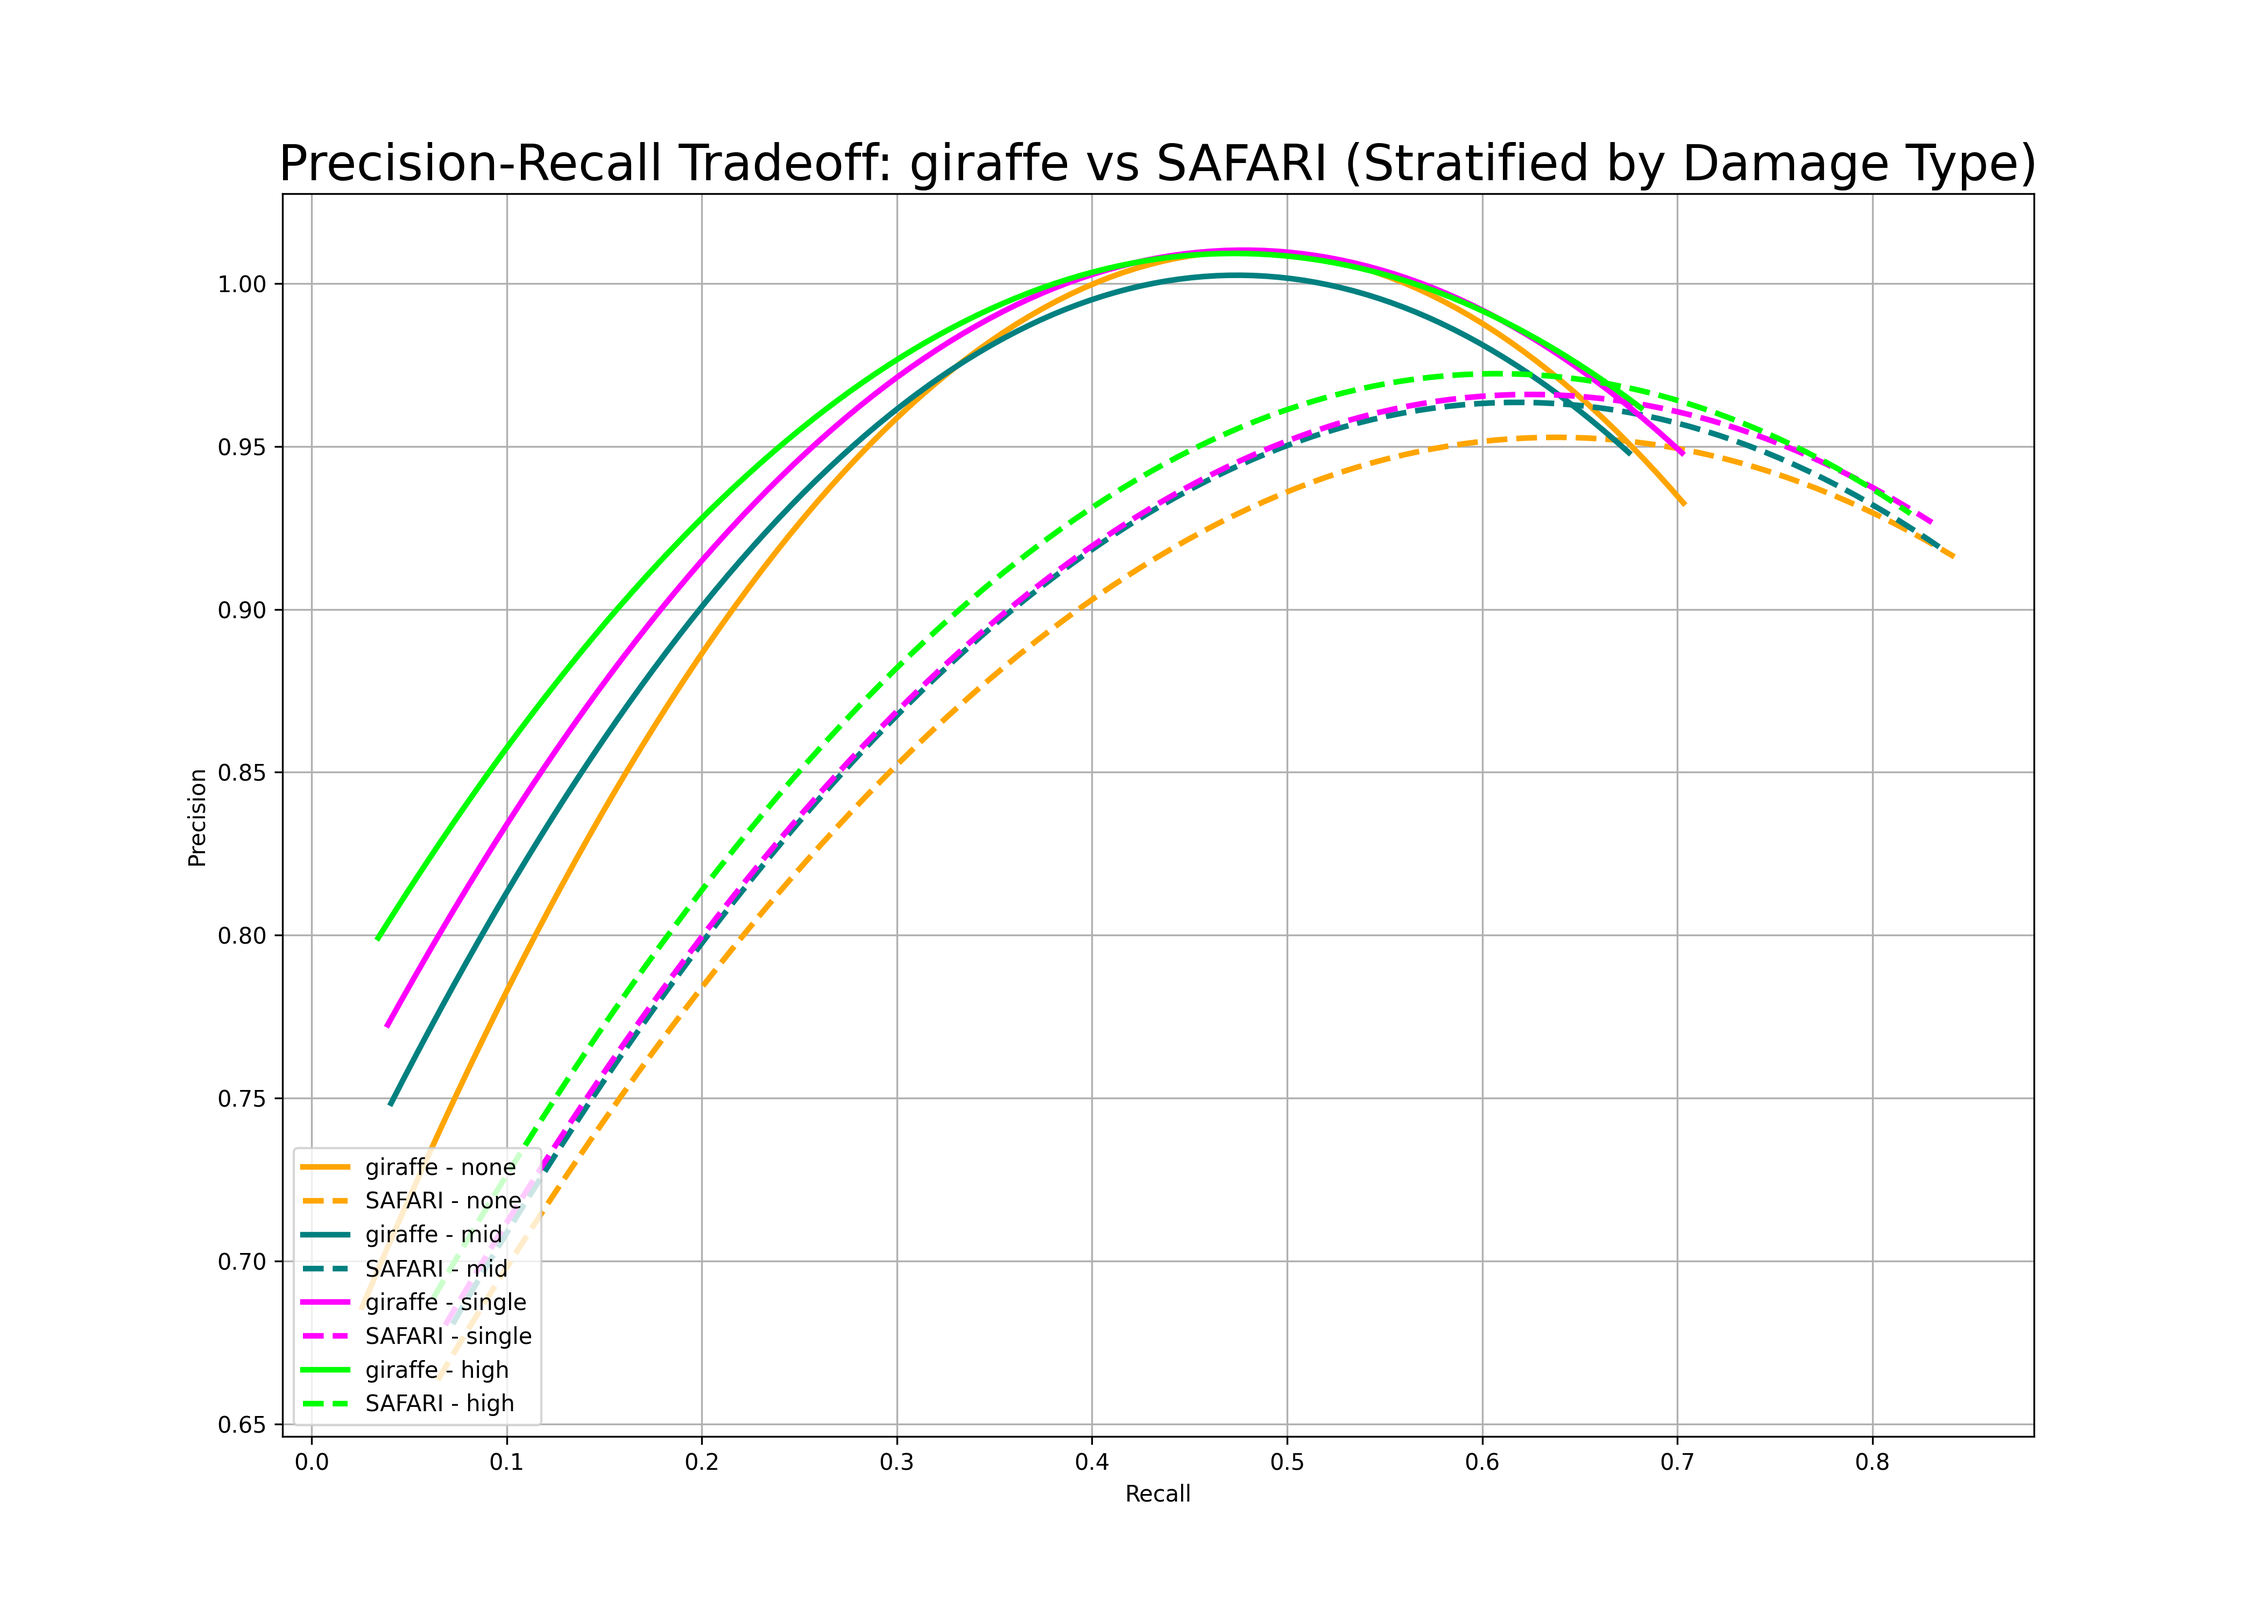
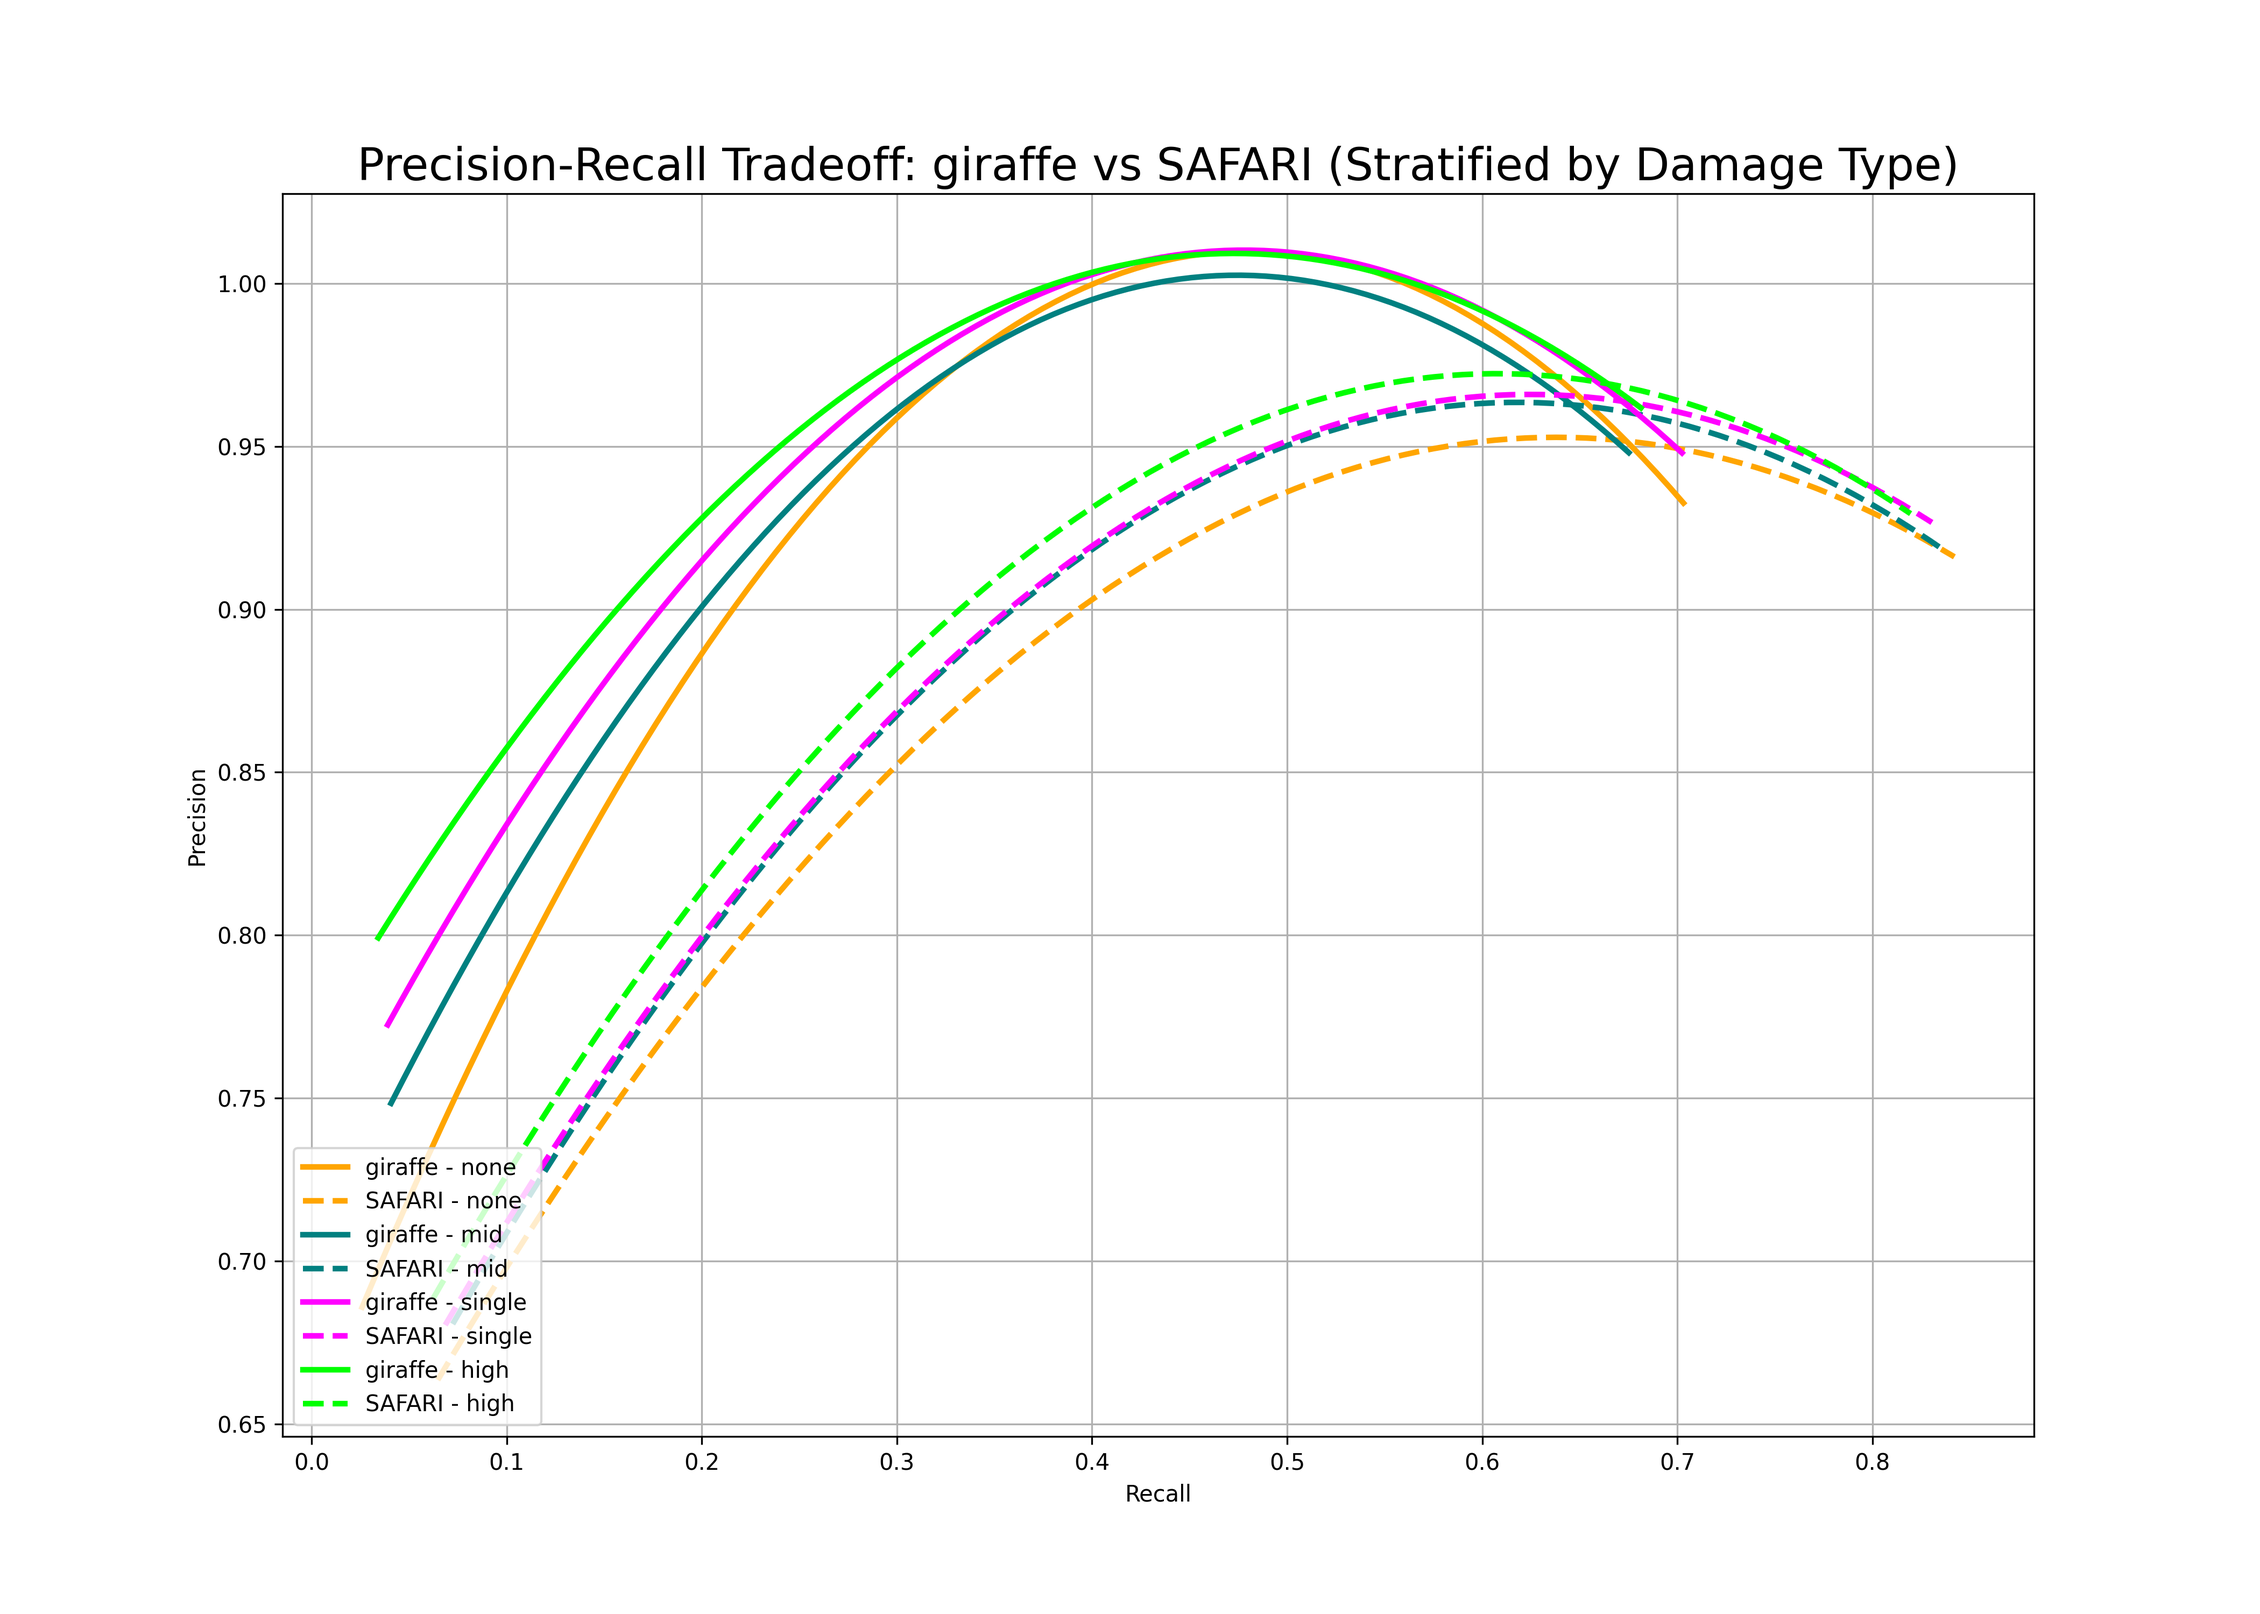
Update

Changed region(s): [[0.1248, 0.093, 0.9045, 0.124]]

diff --git a/linear_experiment/human_mito/linear_benchmark.py b/linear_experiment/human_mito/linear_benchmark.py
@@ -1,142 +1,74 @@
-import csv
-import numpy as np
+
+import pandas as pd
 import matplotlib.pyplot as plt
+import numpy as np
 
-def calculate_metrics(TP, FP, TN, FN):
-    sensitivity = TP / (TP + FN) if TP + FN != 0 else 0
-    specificity = TN / (TN + FP) if TN + FP != 0 else 0
-    precision = TP / (TP + FP) if TP + FP != 0 else 0
-    accuracy = (TP + TN) / (TP + FP + TN + FN) if TP + FP + TN + FN != 0 else 0
-    f1_score = 2 * (precision * sensitivity) / (precision + sensitivity) if precision + sensitivity != 0 else 0
-    return f1_score, sensitivity, specificity, precision, accuracy
+def calculate_precision_recall(df):
+    precision = df['TP'] / (df['TP'] + df['FP'])
+    recall = df['TP'] / (df['TP'] + df['FN'])
+    return precision, recall
 
-def rename_damage_level(level):
-    mapping = {
-        "none": "None",
-        "dmid": "Mid",
-        "dhigh": "High",
-        "single": "Single-stranded"
-    }
-    return mapping.get(level, level)
+def main(file_path):
+    # Load data
+    data = pd.read_csv(file_path)
 
-def rename_aligner(aligner):
-    mapping = {
-        "safari": "SAFARI",
-        "bb": "BBMap",
-        "aln_anc": "BWA-aln (anc)",
-        "aln": "BWA-aln",
-        "mem": "BWA-MEM",
-        "Bowtie2": "Bowtie2",
-        "shrimp": "SHRiMP"
-    }
-    return mapping.get(aligner, aligner)
+    # Filter data for 'giraffe' and 'SAFARI'
+    giraffe_data = data[data['Aligner_Name'].str.lower() == 'giraffe']
+    safari_data = data[data['Aligner_Name'].str.upper() == 'SAFARI']
 
-with open('alignment_stats.csv', 'r') as file:
-    csv_reader = csv.DictReader(file)
-    
-    summary = {}
-    
-    for row in csv_reader:
-        damage_type = rename_damage_level(row["Damage_Type"])
-        aligner = rename_aligner(row["Aligner_Name"])
-        
-        if damage_type not in summary:
-            summary[damage_type] = {}
-        
-        if aligner not in summary[damage_type]:
-            summary[damage_type][aligner] = {
-                "TP": 0, "FP": 0, "TN": 0, "FN": 0,
-                "TP_MQ30": 0, "FP_MQ30": 0, "TN_MQ30": 0, "FN_MQ30": 0, "Support": 0
-            }
+    # Damage types
+    damage_types = data['Damage_Type'].unique()
 
-        for key in ["TP", "FP", "TN", "FN", "TP_MQ30", "FP_MQ30", "TN_MQ30", "FN_MQ30"]:
-            summary[damage_type][aligner][key] += int(row[key])
+    # Colorblind-friendly colors
+    colors = ['orange', 'teal', 'magenta', 'lime']
 
-        # Add this line to calculate the support for each aligner and damage type:
-        summary[damage_type][aligner]["Support"] = summary[damage_type][aligner]["TP"] + summary[damage_type][aligner]["FP"] + summary[damage_type][aligner]["TN"] + summary[damage_type][aligner]["FN"]
+    # Line styles
+    line_styles = {'giraffe': '-', 'SAFARI': '--'}
 
+    # Line thickness
+    line_thickness = 2.5
 
-    aligner_order = ['SAFARI', 'giraffe'] + [aligner for aligner in summary[next(iter(summary))].keys() if aligner not in ['SAFARI', 'giraffe']]
-    metrics = ["F1 Score", "Sensitivity", "Specificity", "Precision", "Accuracy"]
-    
-    for damage_type in summary:
-        for metric_type, suffix in [("Overall", ""), ("MQ > 30", "_MQ30")]:
-            data_to_plot = {metric: [] for metric in metrics}
-            
-            # Check which aligners have data for this damage type
-            available_aligners = [aligner for aligner in aligner_order if aligner in summary[damage_type]]
-            
-            for aligner in available_aligners:
-                results = calculate_metrics(summary[damage_type][aligner]["TP" + suffix], summary[damage_type][aligner]["FP" + suffix], \
-                                            summary[damage_type][aligner]["TN" + suffix], summary[damage_type][aligner]["FN" + suffix])
-                
-                # Print metrics to terminal
-                print(f"Metrics for Damage Type: {damage_type}, Aligner: {aligner}, Metric Type: {metric_type}")
-                for metric, value in zip(metrics, results):
-                    print(f"{metric}: {value:.4f}")
-                print(f"Support: {summary[damage_type][aligner]['Support']}")
-                print("-" * 50)
-                
-                for metric in metrics:
-                    data_to_plot[metric].append(results[metrics.index(metric)])
-            
-            x = np.arange(len(available_aligners))
-            width = 0.15
-            
-            fig, ax = plt.subplots(figsize=(15, 7))
-            
-            for idx, metric in enumerate(metrics):
-                ax.bar(x + idx*width, data_to_plot[metric], width, label=metric)
+    # Prepare plot
+    plt.figure(figsize=(14, 10))
 
-            ax.set_xlabel('Aligners')
-            ax.set_ylabel('Score')
-            ax.set_title(f'Metrics Comparison ({metric_type}) by Aligner for {damage_type} damage')
-            ax.set_xticks(x + 2*width)
-            ax.set_xticklabels(available_aligners)
-            ax.legend()
-            plt.ylim([0, 1])
-            plt.tight_layout()
+    # Plotting
+    for i, damage_type in enumerate(damage_types):
+        # Filter data by damage type
+        giraffe_dt_data = giraffe_data[giraffe_data['Damage_Type'] == damage_type]
+        safari_dt_data = safari_data[safari_data['Damage_Type'] == damage_type]
 
-            if metric_type == "Overall":
-                plt.savefig(f"{damage_type}_benchmark.png")
-            else:
-                plt.savefig(f"{damage_type}_benchmark_mq30.png")
+        # Calculate precision and recall
+        giraffe_precision, giraffe_recall = calculate_precision_recall(giraffe_dt_data)
+        safari_precision, safari_recall = calculate_precision_recall(safari_dt_data)
 
+        # Fit and plot curves for giraffe data
+        if len(giraffe_precision) > 1 and len(giraffe_recall) > 1:
+            giraffe_curve_fit = np.polyfit(giraffe_recall, giraffe_precision, 2)
+            giraffe_fit_fn = np.poly1d(giraffe_curve_fit)
+            recall_range = np.linspace(min(giraffe_recall), max(giraffe_recall), 100)
+            plt.plot(recall_range, giraffe_fit_fn(recall_range), line_styles['giraffe'], color=colors[i], linewidth=line_thickness, label=f'giraffe - {damage_type}')
 
-        # Separate plot for safari and giraffe at high damage
-        if damage_type == "High":
-            data_to_plot = {metric: [] for metric in metrics}
-            special_aligners = ['SAFARI', 'giraffe']
-            colors = {'SAFARI': 'green', 'giraffe': 'orange'}
-    
-            for aligner in special_aligners:
-                results = calculate_metrics(summary[damage_type][aligner]["TP"], summary[damage_type][aligner]["FP"], summary[damage_type][aligner]["TN"], summary[damage_type][aligner]["FN"])
-                for metric, value in zip(metrics, results):
-                    data_to_plot[metric].append(value)
-    
-            x = np.arange(len(metrics))
-    
-            # Adjust the width for thicker bars
-            width = 0.4
-    
-            fig, ax = plt.subplots(figsize=(10, 7))
-    
-            for idx, metric in enumerate(metrics):
-                for aligner_idx, aligner in enumerate(special_aligners):
-                    ax.bar(x[idx] + width * aligner_idx, data_to_plot[metric][aligner_idx], width, label=f'{metric} ({aligner})', color=colors[aligner])
-    
-            ax.set_xlabel('Metrics')
-            ax.set_ylabel('Score')
-            ax.set_title(f'Metric Comparison between giraffe and SAFARI at High Damage Rate')
-            ax.set_xticks(x)
-            ax.set_xticklabels(metrics)
-    
-            # Create a custom legend
-            from matplotlib.lines import Line2D
-            custom_lines = [Line2D([0], [0], color=colors[aligner], lw=4) for aligner in special_aligners]
-            ax.legend(custom_lines, special_aligners, loc='upper left', title='Aligners')
-    
-            plt.ylim([0, 1])
-            plt.tight_layout()
+        # Fit and plot curves for SAFARI data
+        if len(safari_precision) > 1 and len(safari_recall) > 1:
+            safari_curve_fit = np.polyfit(safari_recall, safari_precision, 2)
+            safari_fit_fn = np.poly1d(safari_curve_fit)
+            recall_range = np.linspace(min(safari_recall), max(safari_recall), 100)
+            plt.plot(recall_range, safari_fit_fn(recall_range), line_styles['SAFARI'], color=colors[i], linewidth=line_thickness, label=f'SAFARI - {damage_type}')
 
-            plt.savefig("Fig2.png", dpi=350)
+    # Adding labels and title
+    plt.xlabel('Recall')
+    plt.ylabel('Precision')
+    plt.title('Precision-Recall Tradeoff: giraffe vs SAFARI (Stratified by Damage Type)', fontsize=22)
+    plt.legend(loc='lower left')
+    plt.grid(True)
+
+    # Save the plot with high resolution
+    plt.savefig('precision_recall_tradeoff.png', dpi=300)
+
+if __name__ == '__main__':
+    import sys
+    if len(sys.argv) != 2:
+        print("Usage: python this_script.py <path_to_alignment_stats.csv>")
+    else:
+        main(sys.argv[1])
+
